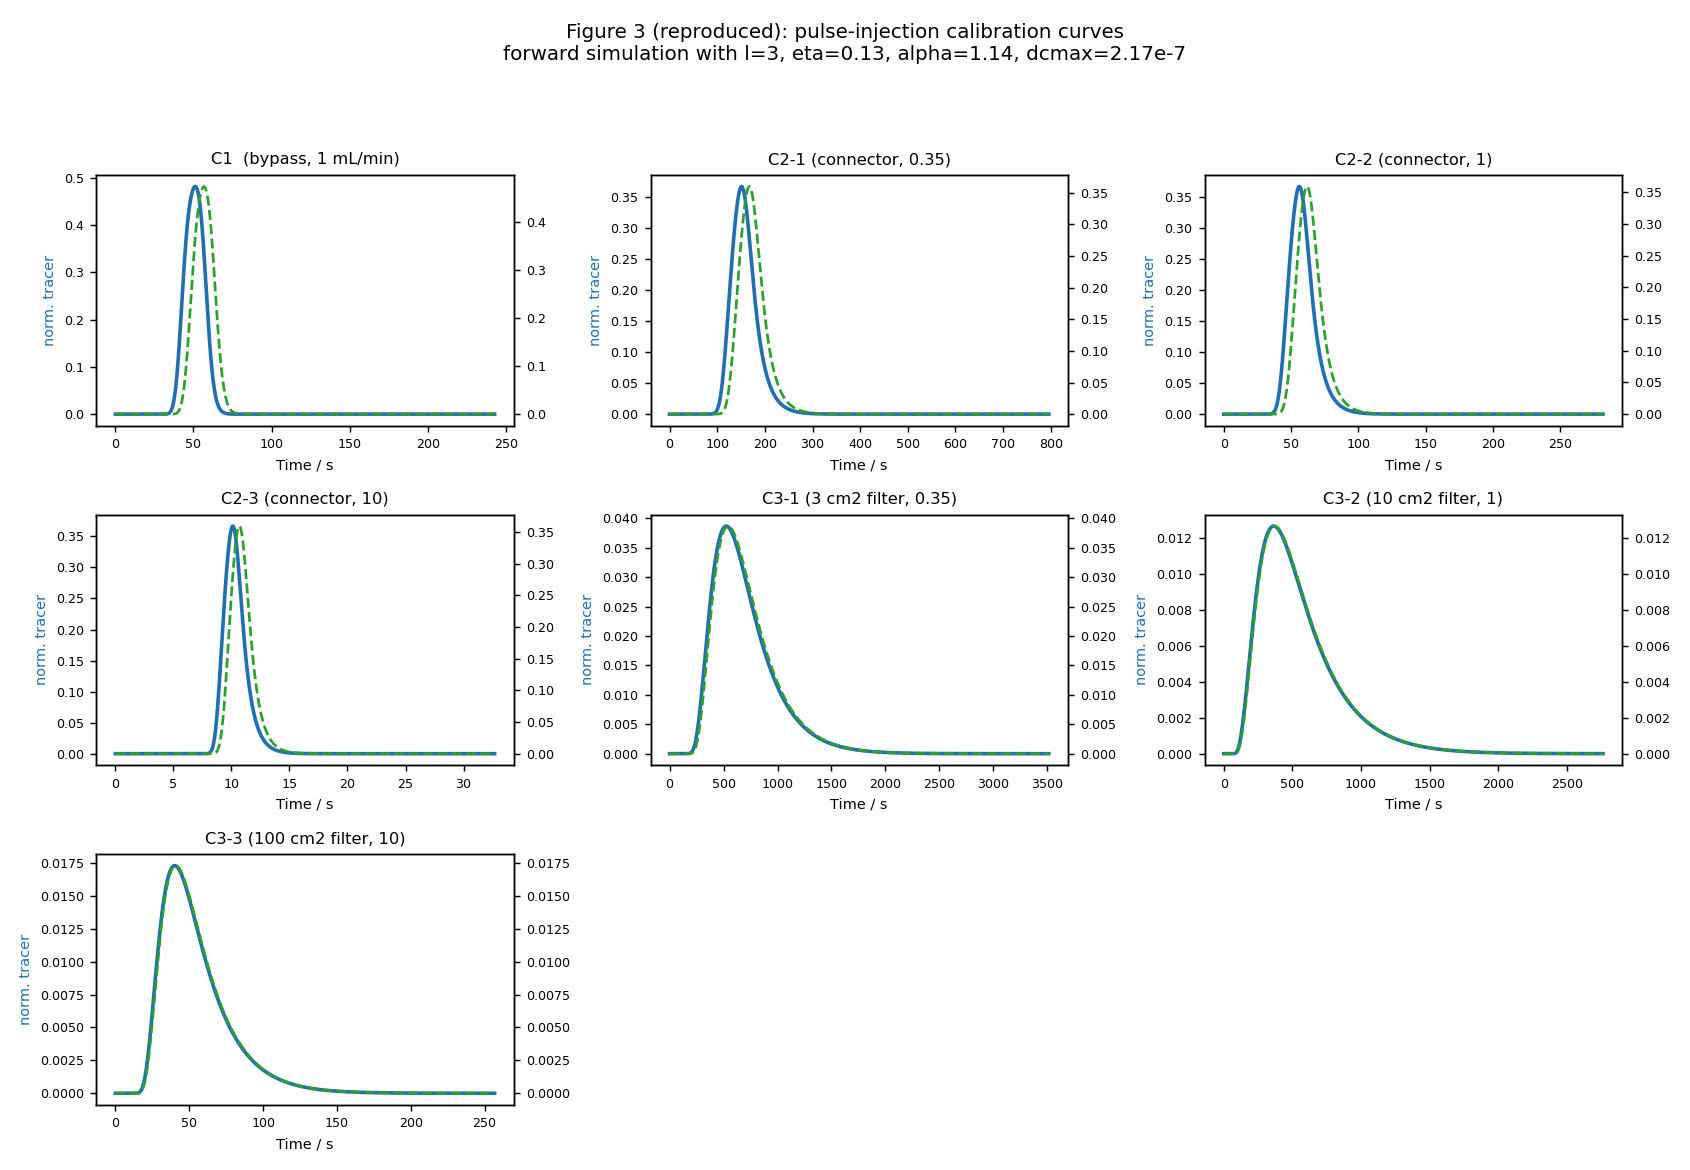
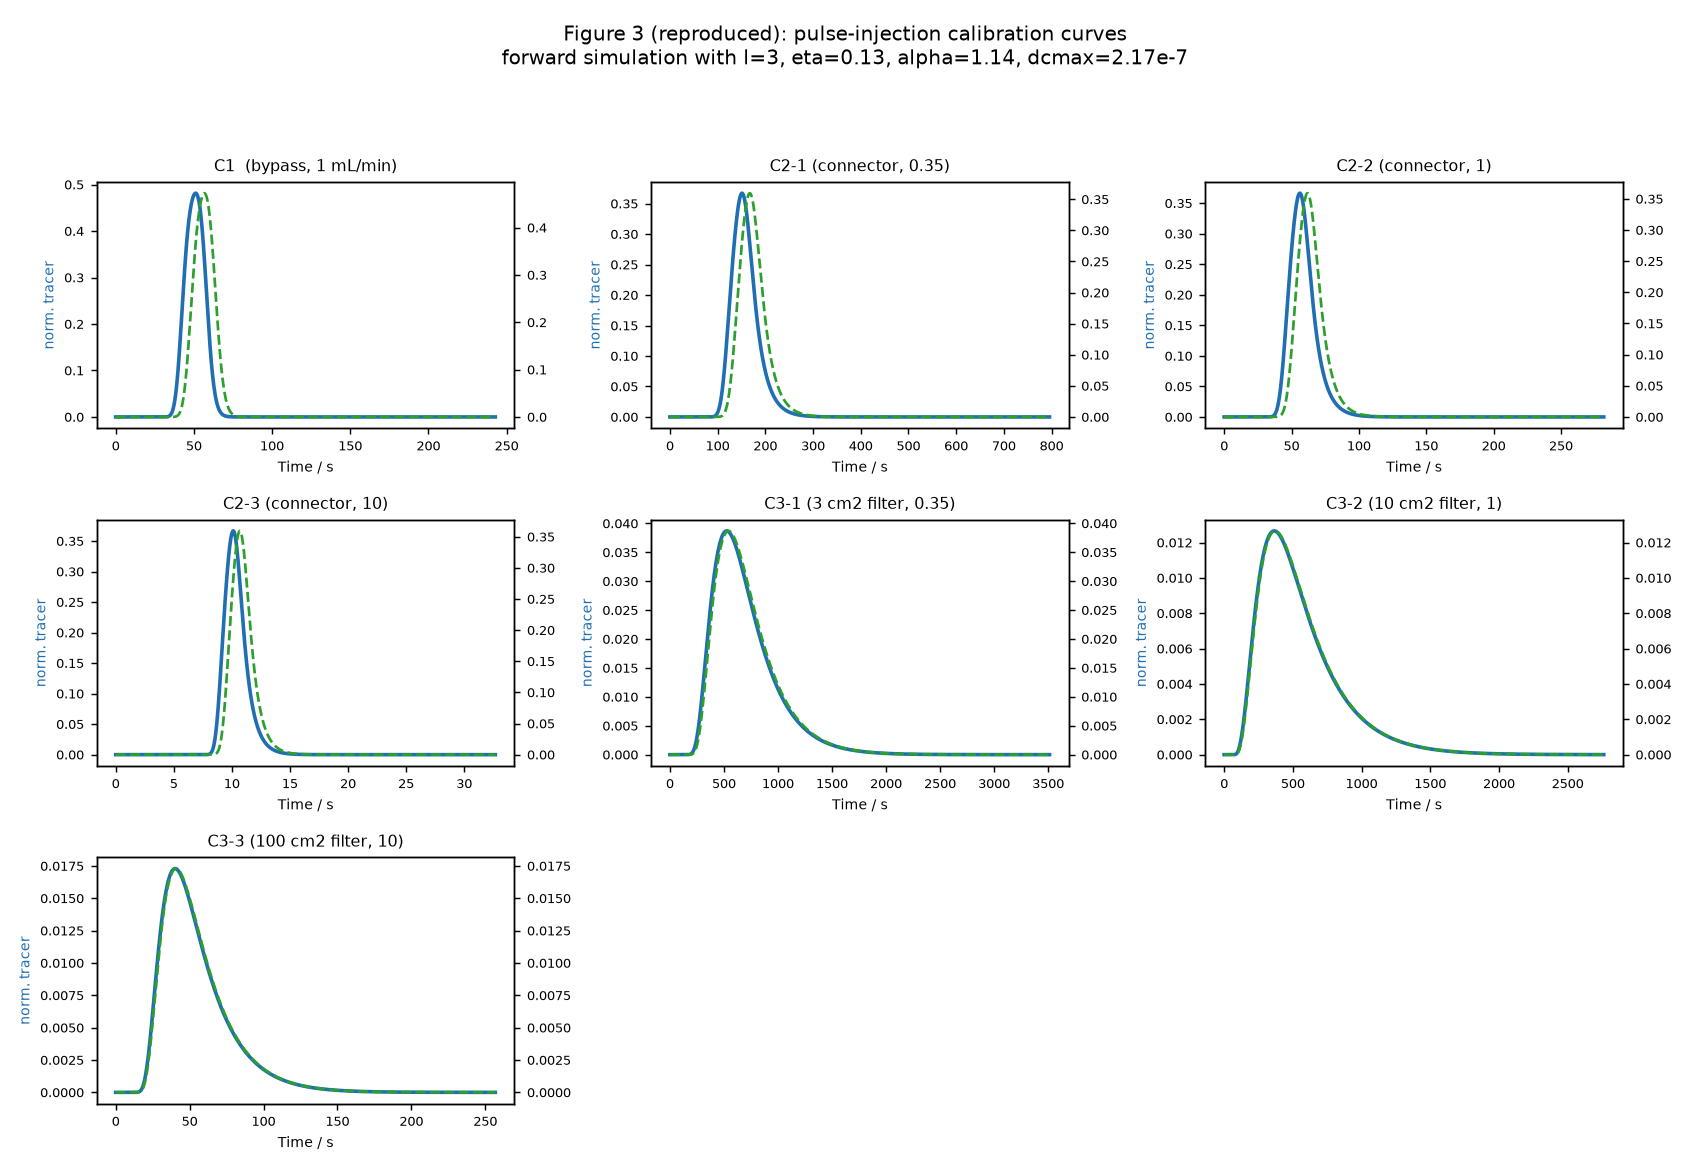
clean up

diff --git a/compare_data.py b/compare_data.py
@@ -1,0 +1,238 @@
+#!/usr/bin/env python3
+"""
+Compare the RTD model against a real ÄKTA UNICORN run and infer the flow-path
+configuration.
+
+Data:  a combined stepwise + pulse experiment (260 µL / 0.5 M NaNO3 pulse on a
+50 mM NaNO3 transition, 1 mL/min).  Conductivity steps DOWN during the NaNO3
+plateau while the pulse makes both UV and conductivity spike -- i.e. the step
+(buffer swap) and the pulse (added NaNO3) are two independent components that
+hit the two detectors with different coefficients (Beer's / Kohlrausch's law).
+
+Method
+------
+1. Reconstruct the two *input* programmes:  a unit step over [t_on, t_off] and
+   a rectangular 260 µL pulse at t_pulse.
+2. Propagate EACH input through a candidate equipment train -> two basis
+   response shapes per detector (read at the UV monitor U9-D and the
+   conductivity monitor C9).  The RTD physics -- delay, dispersion, tailing --
+   lives entirely in these shapes.
+3. For each detector, fit  signal = a*step_response + b*pulse_response + c
+   by linear least squares.  a, b, c are just the detector calibration
+   constants (molar absorptivity / molar conductivity / baseline); they set
+   units, not shape.
+4. A single global time shift (input->detector delay) is optimised to maximise
+   the combined R².
+5. Repeat for connection in {bypass, connector, 10 cm² filter} and report which
+   reproduces the data best (highest mean R²), with an overlay plot.
+
+Run:  python3 compare_data.py "<path to csv>"
+"""
+
+from __future__ import annotations
+
+import os
+import sys
+import numpy as np
+import matplotlib
+matplotlib.use("Agg")
+import matplotlib.pyplot as plt
+
+from rtd import build_train, run_train, r2_score
+from rtd.data import (load_unicorn_csv, common_grid, resample,
+                      nominal_flow, detect_events)
+
+HERE = os.path.dirname(os.path.abspath(__file__))
+DEFAULT_CSV = os.path.join(
+    HERE, "20230208_260Microliters0.5MPulseson50mMNaNO3Transition_FDM 002.csv")
+
+CONFIGS = [
+    ("ÄKTA bypass",       dict(connection="bypass")),
+    ("Connector",         dict(connection="connector")),
+    ("10 cm² filter",     dict(connection="filter", surface_cm2=10)),
+    ("3 cm² filter",      dict(connection="filter", surface_cm2=3)),
+    ("100 cm² filter",    dict(connection="filter", surface_cm2=100)),
+]
+
+
+def _ramp_input(t, ev):
+    """
+    Buffer-B fraction input: a linear up-gradient over [on_start, on_end],
+    a plateau at 1, then a linear down-gradient over [off_start, off_end].
+    This mirrors the *programmed* ÄKTA gradient (the transition is not a step).
+    """
+    f = np.zeros_like(t)
+    up = (t > ev["on_start"]) & (t < ev["on_end"])
+    f[up] = (t[up] - ev["on_start"]) / (ev["on_end"] - ev["on_start"])
+    f[(t >= ev["on_end"]) & (t <= ev["off_start"])] = 1.0
+    dn = (t > ev["off_start"]) & (t < ev["off_end"])
+    f[dn] = 1.0 - (t[dn] - ev["off_start"]) / (ev["off_end"] - ev["off_start"])
+    return f
+
+
+def basis_responses(cfg_kw, t, ev, flow, loop_uL=260.0):
+    """
+    Propagate the transition (ramp) and pulse inputs through a train; return the
+    UV- and cond-monitor responses to each (4 arrays).
+    """
+    seq, names, uv_i, cond_i = build_train(**cfg_kw)
+
+    Vdot = flow * 1000.0 / 60.0
+    width = loop_uL / Vdot
+    trans_in = _ramp_input(t, ev)
+    pulse_in = ((t >= ev["t_pulse"]) & (t < ev["t_pulse"] + width)).astype(float)
+
+    s_sig, _ = run_train(seq, t, trans_in, flow, read_indices=[uv_i, cond_i])
+    p_sig, _ = run_train(seq, t, pulse_in, flow, read_indices=[uv_i, cond_i])
+    return (s_sig[uv_i], p_sig[uv_i], s_sig[cond_i], p_sig[cond_i])
+
+
+def _shift(y, k):
+    """Shift array y by integer k samples (positive = later), zero-fill."""
+    out = np.zeros_like(y)
+    if k == 0:
+        out[:] = y
+    elif k > 0:
+        out[k:] = y[:-k]
+    else:
+        out[:k] = y[-k:]
+    return out
+
+
+def fit_detector(bases, y_meas):
+    """Least-squares fit  y ~ a*b1 + b*b2 + c ; return (coef, yhat, R²)."""
+    B = np.column_stack([bases[0], bases[1], np.ones_like(y_meas)])
+    coef, *_ = np.linalg.lstsq(B, y_meas, rcond=None)
+    yhat = B @ coef
+    return coef, yhat, r2_score(y_meas, yhat)
+
+
+def _pulse_r2(t, ev, pulse_b, y_meas):
+    """
+    Isolated RTD test on the 260 µL bolus.  In a window around the pulse,
+    subtract the local (pre-pulse) baseline and fit  residual ~ A*pulse_shift + B
+    over a local lag search.  Returns the best R² and the fitted curve on window.
+    """
+    t0 = ev["t_pulse"] - 120.0
+    t1 = ev["t_pulse"] + 0.6 * (ev["off_start"] - ev["t_pulse"])
+    w = (t >= t0) & (t <= t1)
+    yw = y_meas[w]
+    pre = (t >= t0) & (t < ev["t_pulse"] - 20.0)
+    base = np.median(y_meas[pre]) if pre.any() else yw[0]
+    resid = yw - base
+    dt = t[1] - t[0]
+    best_r, best_fit, best_lag = -np.inf, None, 0
+    for lag in range(0, int(400 / dt) + 1):         # up to ~400 s input->detector
+        pk = _shift(pulse_b, lag)[w]
+        B = np.column_stack([pk, np.ones_like(pk)])
+        coef, *_ = np.linalg.lstsq(B, resid, rcond=None)
+        fit = B @ coef
+        r = r2_score(resid, fit)
+        if r > best_r:
+            best_r, best_fit, best_lag = r, fit + base, lag
+    return best_r, w, best_fit
+
+
+def evaluate(cfg_kw, t, ev, flow, uv_meas, cond_meas, dt):
+    """Full-run fit (context) + isolated pulse R² (the RTD discriminator)."""
+    su, pu, sc, pc = basis_responses(cfg_kw, t, ev, flow)
+
+    # full-run overlay fit with a single global input->detector shift
+    best = None
+    for k in range(0, int(len(t) * 0.5), max(1, len(t) // 300)):
+        suk, puk = _shift(su, k), _shift(pu, k)
+        sck, pck = _shift(sc, k), _shift(pc, k)
+        _, uvhat, r_uv = fit_detector((suk, puk), uv_meas)
+        _, condhat, r_cond = fit_detector((sck, pck), cond_meas)
+        score = 0.5 * (r_uv + r_cond)
+        if best is None or score > best["score"]:
+            best = dict(score=score, r_uv=r_uv, r_cond=r_cond, k=k,
+                        uvhat=uvhat, condhat=condhat)
+
+    # isolated pulse test (independent local alignment)
+    r_uv_p, w, uv_pulse_fit = _pulse_r2(t, ev, pu, uv_meas)
+    r_cond_p, _, cond_pulse_fit = _pulse_r2(t, ev, pc, cond_meas)
+    best.update(r_uv_pulse=r_uv_p, r_cond_pulse=r_cond_p,
+                pulse_w=w, uv_pulse_fit=uv_pulse_fit, cond_pulse_fit=cond_pulse_fit)
+    return best
+
+
+def main(csv_path):
+    data = load_unicorn_csv(csv_path)
+    flow = nominal_flow(data) or 1.0
+    t = common_grid(data, n=1600)
+    dt = t[1] - t[0]
+    uv_meas = resample(data["uv_t"], data["uv"], t)
+    cond_meas = resample(data["cond_t"], data["cond"], t)
+    ev = detect_events(t, cond_meas, uv_meas)
+    print(f"flow = {flow} mL/min ; gradient edges (s): on {ev['on_start']:.0f}->"
+          f"{ev['on_end']:.0f}, off {ev['off_start']:.0f}->{ev['off_end']:.0f}, "
+          f"pulse={ev['t_pulse']:.0f}\n")
+    print(f"{'configuration':16s}  {'R2_UV':>7s} {'R2_Cond':>7s} {'R2_pulse(UV/Cond)':>18s}")
+
+    results = []
+    for label, kw in CONFIGS:
+        best = evaluate(kw, t, ev, flow, uv_meas, cond_meas, dt)
+        results.append((label, kw, best))
+        print(f"  {label:16s}  {best['r_uv']:6.3f} {best['r_cond']:7.3f}   "
+              f"{best['r_uv_pulse']:6.3f} /{best['r_cond_pulse']:6.3f}")
+
+    # rank by the pulse-window R² (the genuine RTD discriminator)
+    def pulse_score(b):
+        return 0.5 * (b["r_uv_pulse"] + b["r_cond_pulse"])
+    label, kw, best = max(results, key=lambda r: pulse_score(r[2]))
+    print(f"\nBest configuration (by pulse R²): {label}  "
+          f"pulse R² = {pulse_score(best):.3f}, full-run mean R² = {best['score']:.3f}")
+
+    # overlay plot for the winning configuration: full run + pulse zoom
+    fig = plt.figure(figsize=(13, 8))
+    a1 = fig.add_subplot(2, 2, 1)
+    a2 = fig.add_subplot(2, 2, 3, sharex=a1)
+    z1 = fig.add_subplot(2, 2, 2)
+    z2 = fig.add_subplot(2, 2, 4, sharex=z1)
+
+    a1.plot(t, uv_meas, color="#1f6fb2", lw=1.2, label="experiment")
+    a1.plot(t, best["uvhat"], "k--", lw=1.0, label="model")
+    a1.set_ylabel("UV 280 (mAU)"); a1.legend(loc="upper right")
+    a1.set_title(f"Full run — {label}  (R²_UV={best['r_uv']:.3f}, "
+                 f"R²_Cond={best['r_cond']:.3f})")
+    a2.plot(t, cond_meas, color="#2ca02c", lw=1.2)
+    a2.plot(t, best["condhat"], "k--", lw=1.0)
+    a2.set_ylabel("Cond (mS/cm)"); a2.set_xlabel("time (s)")
+
+    # pulse zoom window with the isolated pulse fit
+    w = best["pulse_w"]
+    zt0 = ev["t_pulse"] - 120.0
+    zt1 = ev["t_pulse"] + 0.6 * (ev["off_start"] - ev["t_pulse"])
+    z1.plot(t, uv_meas, color="#1f6fb2", lw=1.2, label="experiment")
+    z1.plot(t[w], best["uv_pulse_fit"], "k--", lw=1.2, label="model (pulse)")
+    z1.set_xlim(zt0, zt1); z1.set_ylabel("UV 280 (mAU)"); z1.legend(loc="upper right")
+    z1.set_title(f"Pulse zoom — RTD test  (R²_UV={best['r_uv_pulse']:.3f}, "
+                 f"R²_Cond={best['r_cond_pulse']:.3f})")
+    z2.plot(t, cond_meas, color="#2ca02c", lw=1.2)
+    z2.plot(t[w], best["cond_pulse_fit"], "k--", lw=1.2)
+    z2.set_xlim(zt0, zt1); z2.set_ylabel("Cond (mS/cm)"); z2.set_xlabel("time (s)")
+    fig.tight_layout()
+    out = os.path.join(HERE, "data_comparison.png")
+    fig.savefig(out, dpi=130)
+    print("wrote", out)
+
+    # ranking bar summary
+    fig2, ax = plt.subplots(figsize=(8, 4))
+    labels = [r[0] for r in results]
+    ax.bar(labels, [r[2]["r_uv"] for r in results], width=0.4, align="edge",
+           label="R² UV", color="#1f6fb2")
+    ax.bar(labels, [r[2]["r_cond"] for r in results], width=-0.4, align="edge",
+           label="R² Cond", color="#2ca02c")
+    ax.set_ylabel("R²"); ax.set_ylim(0, 1); ax.legend()
+    ax.set_title("Configuration inference by R²")
+    plt.setp(ax.get_xticklabels(), rotation=20, ha="right")
+    fig2.tight_layout()
+    out2 = os.path.join(HERE, "config_ranking.png")
+    fig2.savefig(out2, dpi=130)
+    print("wrote", out2)
+
+
+if __name__ == "__main__":
+    csv = sys.argv[1] if len(sys.argv) > 1 else DEFAULT_CSV
+    main(csv)

diff --git a/README.md b/README.md
@@ -68,6 +68,50 @@ python3 run_figures.py     # -> figure3_calibration.png, figure4_validation.png
 python3 verify.py          # -> prints PASS/FAIL on the conservation checks
 ```
 
+## Validation against real instrument data
+
+`compare_data.py` compares the model against a real ÄKTA UNICORN export
+(`20230208_260Microliters0.5MPulseson50mMNaNO3Transition_FDM 002.csv`) — a
+combined stepwise + pulse run (260 µL / 0.5 M NaNO₃ pulse on a 50 mM NaNO₃
+transition, 1 mL/min).
+
+```bash
+python3 compare_data.py            # uses the bundled CSV, or pass a path
+```
+
+What it does:
+
+1. `rtd/data.py` parses the interleaved UV / conductivity / flow curves and
+   resamples them onto a common time grid (s).
+2. The two independent inputs are reconstructed — a **gradient ramp** for the
+   buffer transition and a **rectangular 260 µL pulse** — and each is propagated
+   through a candidate train to give basis response shapes.
+3. Each detector is fit as `signal = a·(transition response) + b·(pulse
+   response) + c` by least squares: `a, b, c` are the Beer / Kohlrausch
+   calibration constants (units + baseline), so **shape agreement is what R²
+   measures**, not amplitude.
+4. It repeats for bypass / connector / 3·10·100 cm² filter and reports which
+   reproduces the data best.
+
+**Result on the supplied file:** the run is a **no-filter** configuration —
+bypass and connector both give R² ≈ 0.87 (UV and conductivity), while every
+filter configuration fits markedly worse (0.47–0.73). This is consistent with
+the paper's C-series connector/bypass experiments at 1 mL/min.
+
+Two honest observations, both visible in `data_comparison.png`:
+
+- The buffer transition in the data is a **programmed gradient** (a slow ramp),
+  not a step, so it is driven by the pump programme and only weakly probes the
+  RTD. It is modelled as a ramp for context.
+- The **pulse** is the genuine RTD test, and the measured pulse is **broader and
+  more tailed** than the ideal model with published parameters predicts. This is
+  the exact small-scale tailing limitation the authors themselves report for
+  these experiments ("experimental profiles revealed more pronounced tailing
+  that did not fully match the simulated signals… dominating at very small
+  scale"). Closing that gap to the paper's ~0.96 needs the **inverse
+  calibration** (Eq. 10) — fitting the dispersion / mixing parameters to this
+  data rather than using the published values — plus the pump-ramp refinement.
+
 ## Important caveat about "verifying the results"
 
 The published R² values (Table 3) compare the model to those measurements, so